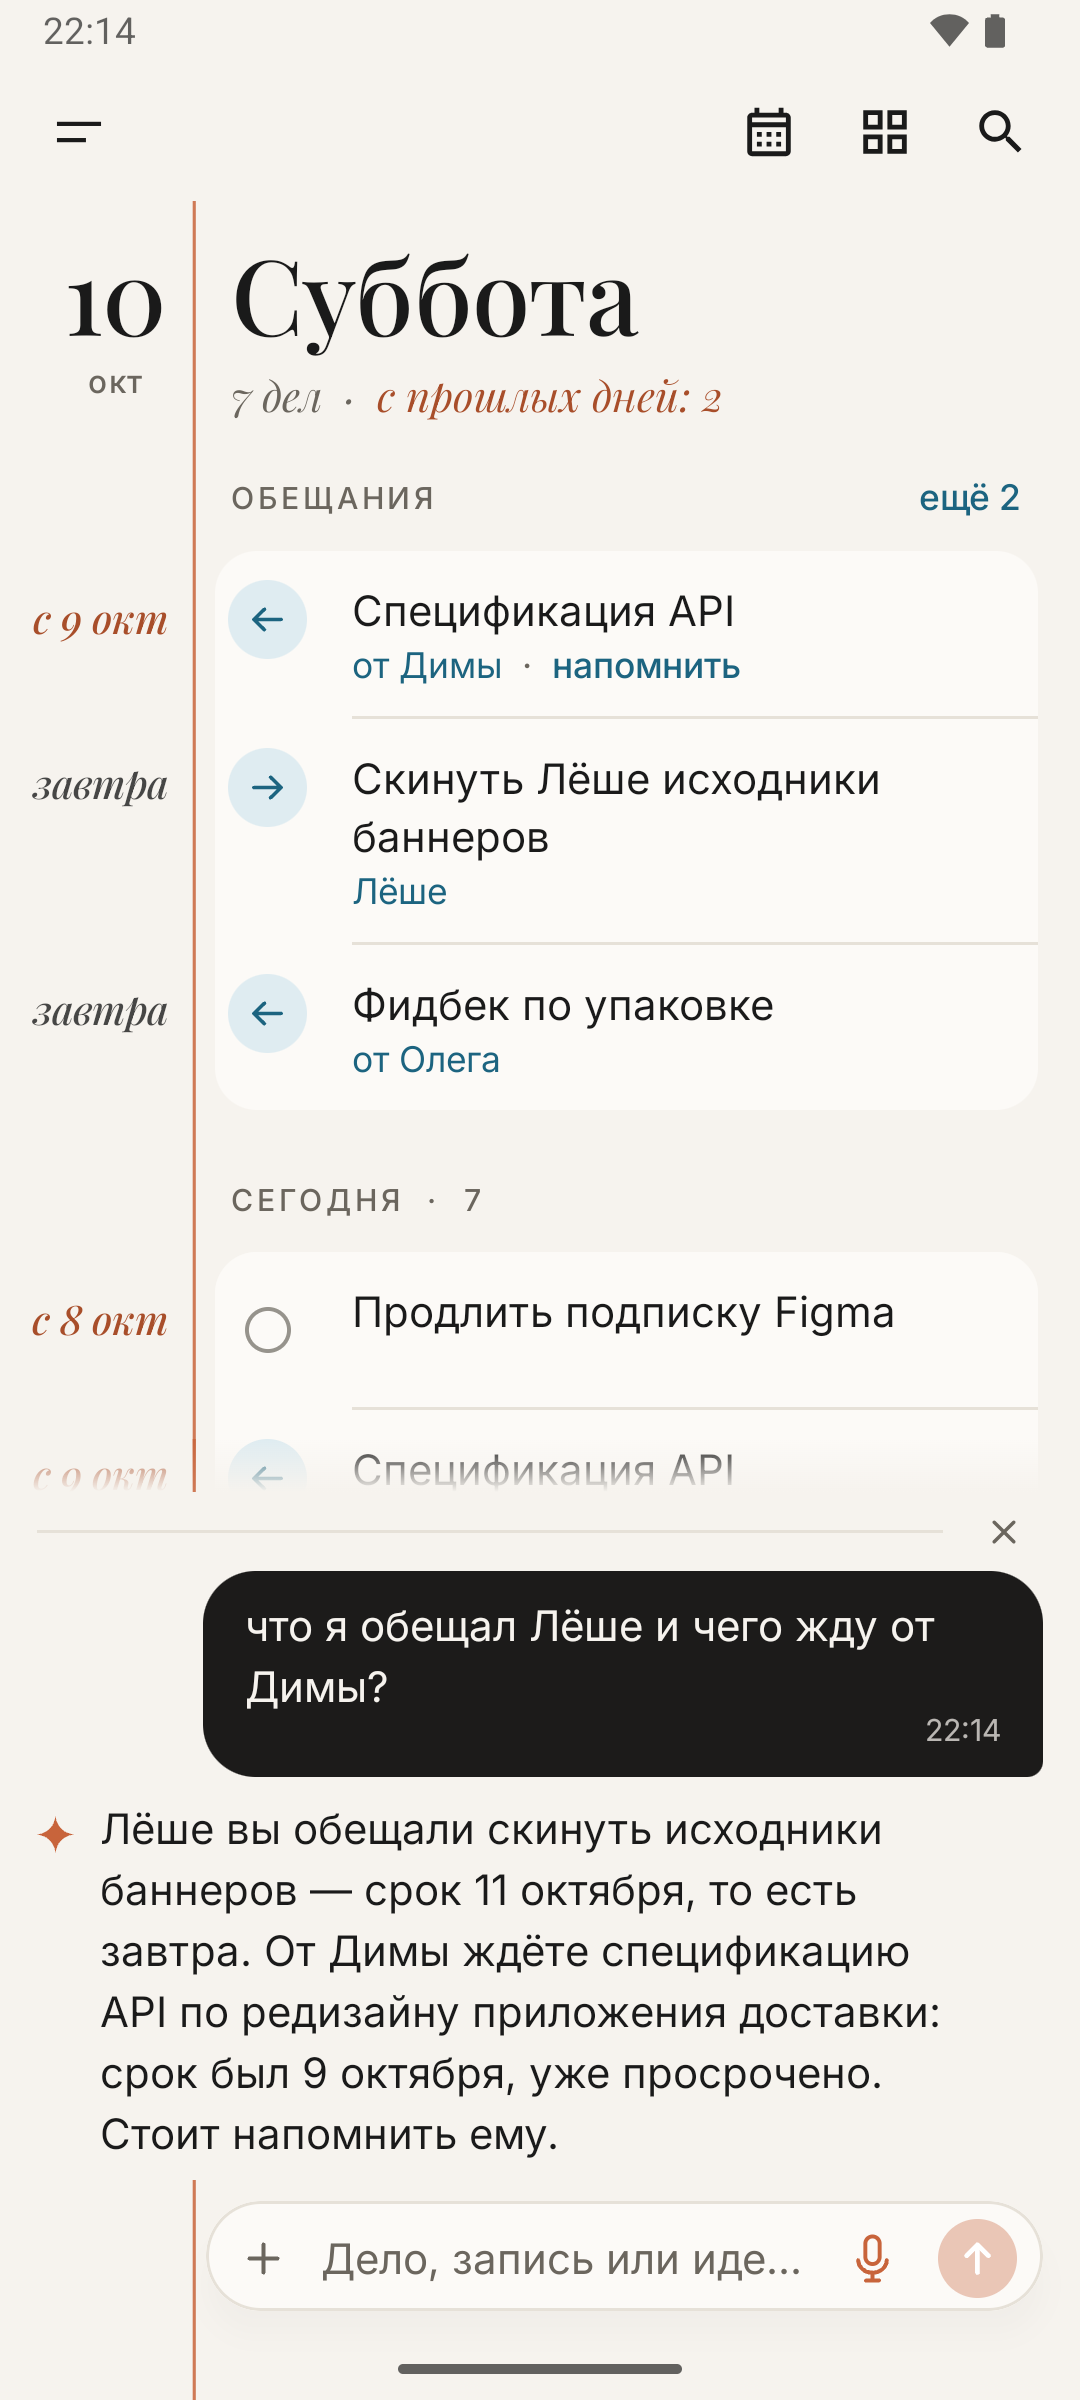
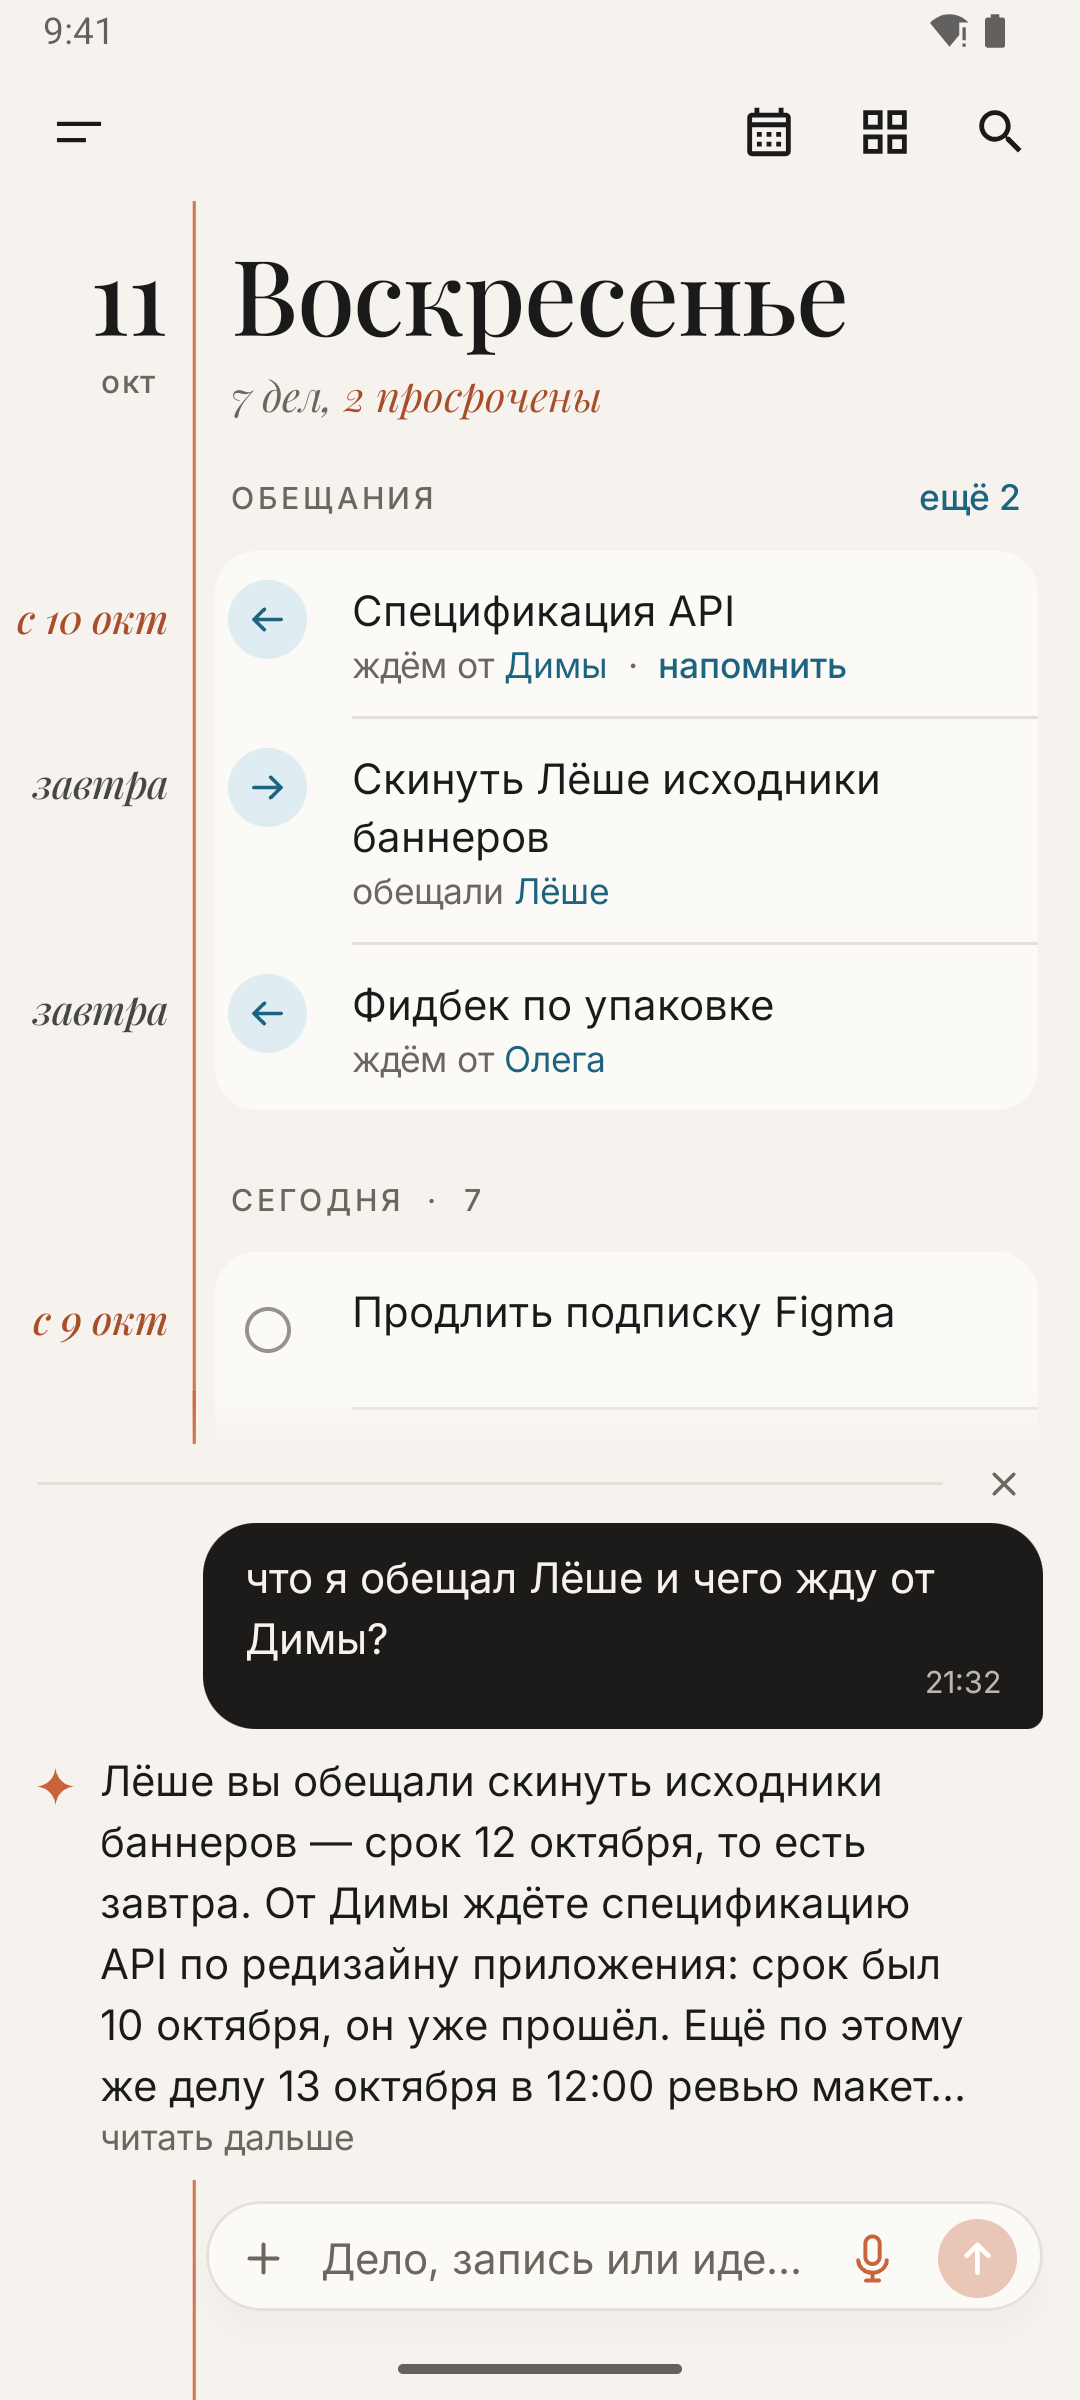
Кадры RuStore под 0.39
Все шесть сняты заново с 0.39 на чистом примере данных (ассистент и пересылка
больше не от 0.35), общий лист all-screens.jpg пересобран.

diff --git a/docs/rustore.md b/docs/rustore.md
@@ -62,7 +62,7 @@ Margin замечает обещания в обе стороны: «Дима п
 - Уведомления, точные будильники, запуск после перезагрузки — напоминания о делах.
 - Интернет — ИИ-помощник и распознавание речи и текста (Яндекс Облако).
 
-## Скриншоты (0.34, пример данных, 1080×2400)
+## Скриншоты (0.39, пример данных, 1080×2400)
 1. «Сегодня» — на полях «когда», обещания и дела дня на панелях
 2. Ответ помощника: «что я обещал Лёше и чего жду от Димы?»
 3. Тема — лента по дням: записи, файлы, дела
